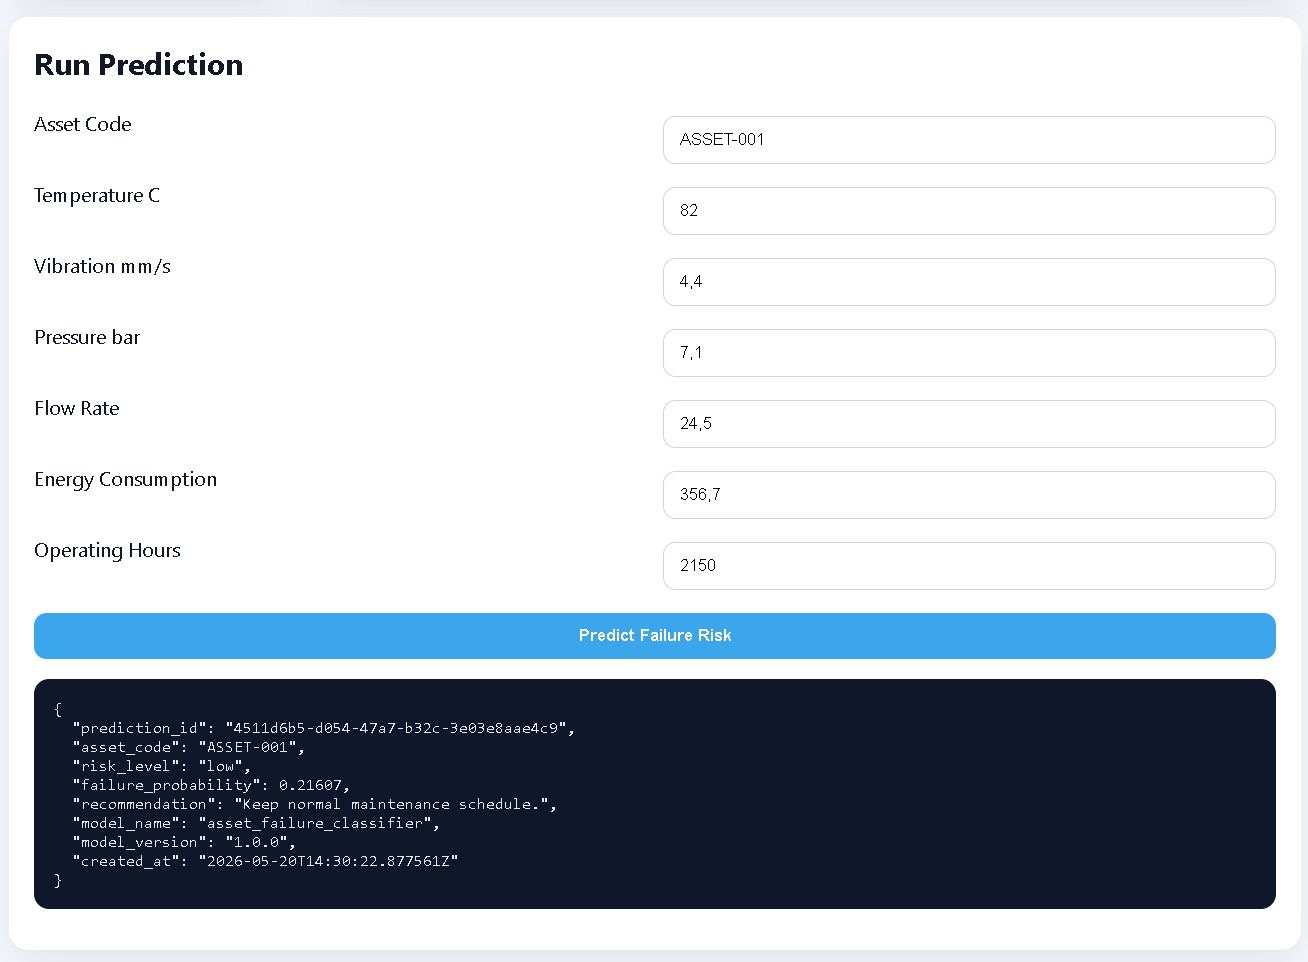
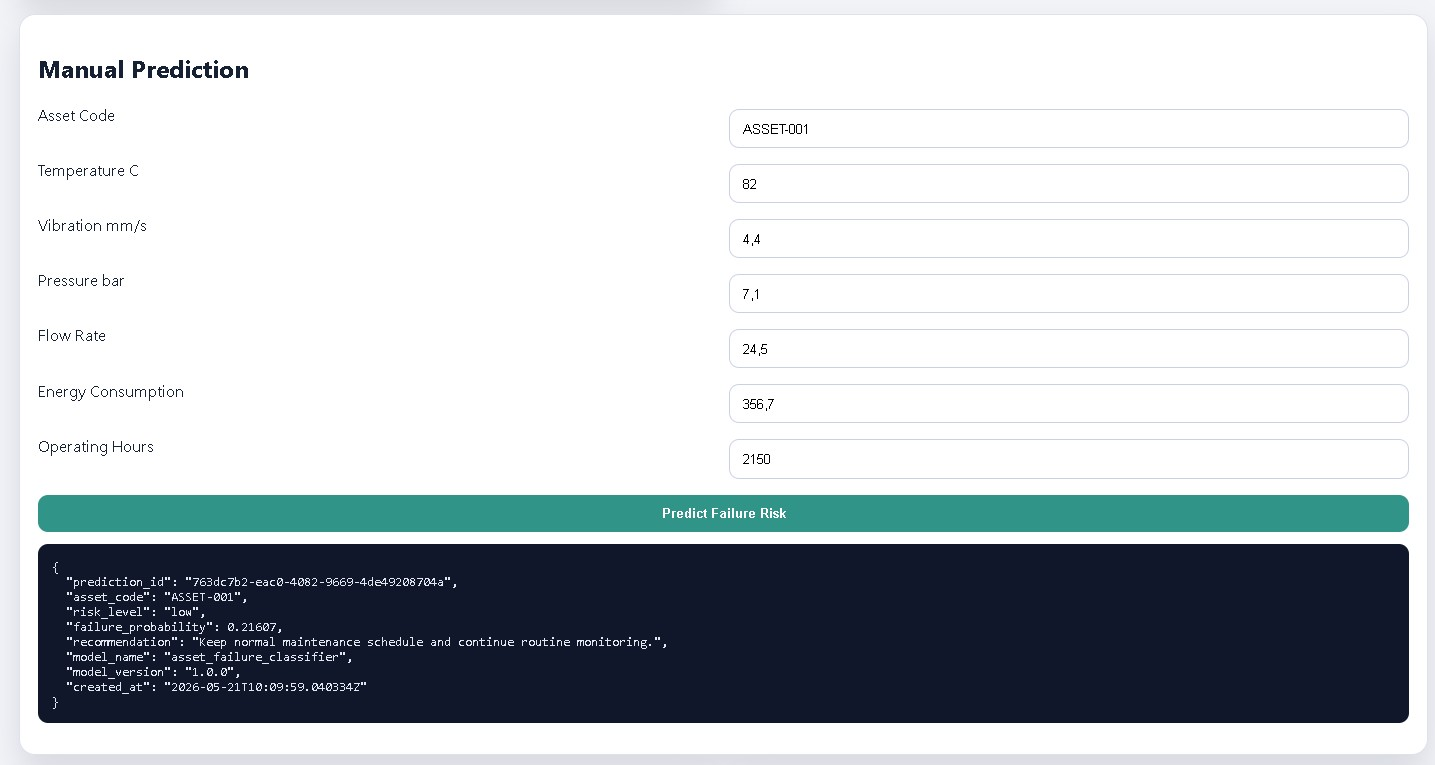
feat: add ingress configurations and update documentation with new portal screenshots and functional validation steps

diff --git a/README.md b/README.md
@@ -102,10 +102,39 @@ Evidencia del paso:
 - Pipeline frontend (detalle de job).
 ![Frontend deploy details](docs/media/details-front-deploy-pipeline_censurada.jpg)
 
-- Portal del simulador publicado.
-![Predictive simulator portal (UI)](docs/media/predictive-simulator-ui-no-data_censurada.jpg)
+- Pantalla de login independiente (acceso obligatorio antes del portal).
+![Frontend login page](docs/media/login-page.jpg)
 
-### 7. Observe full CI/CD flow
+- Portal autenticado con nueva distribucion (registro, salud, estado de riesgo y secciones operativas).
+![Predictive simulator portal (authenticated view)](docs/media/predictive-simulator-ui-no-data_censurada-1.jpg)
+
+- Vista complementaria del portal con foco en prediccion manual y controles admin.
+![Predictive simulator portal (manual prediction and admin area)](docs/media/predictive-simulator-ui-no-data_censurada-2.jpg)
+
+### 7. Frontend functional validation
+Validacion recomendada en este orden. Cada captura confirma un bloque funcional concreto.
+
+1. Health endpoints desde UI (`/health/live` y `/health/ready`).
+Resultado esperado: estado `ok/ready` en la salida JSON.
+![Check liveness and readiness](docs/media/check-liveness.jpg)
+
+2. Estado de integraciones (`/models/integrations/status`).
+Resultado esperado: respuesta del estado de conectores y modo de ejecucion.
+![Check integrations](docs/media/check-integrations.jpg)
+
+3. Panel de riesgo en vivo (probabilidad, nivel de riesgo y recomendacion).
+Resultado esperado: refresco periodico y barras de sensores actualizadas.
+![Live risk state panel](docs/media/live-risk-state.jpg)
+
+4. Prediccion manual con respuesta JSON de backend.
+Resultado esperado: `prediction_id`, `risk_level` y `failure_probability` presentes.
+![Manual prediction result](docs/media/predict-failure-risk.jpg)
+
+5. Controles admin para simulacion y ajuste de umbrales.
+Resultado esperado: cambio de estado de simulacion y actualizacion de thresholds.
+![Admin controls panel](docs/media/admin-controls.jpg)
+
+### 8. Observe full CI/CD flow
 Vista conjunta de ejecuciones en Azure DevOps:
 
 ![Pipelines running](docs/media/pipelines-running_censurada.jpg)